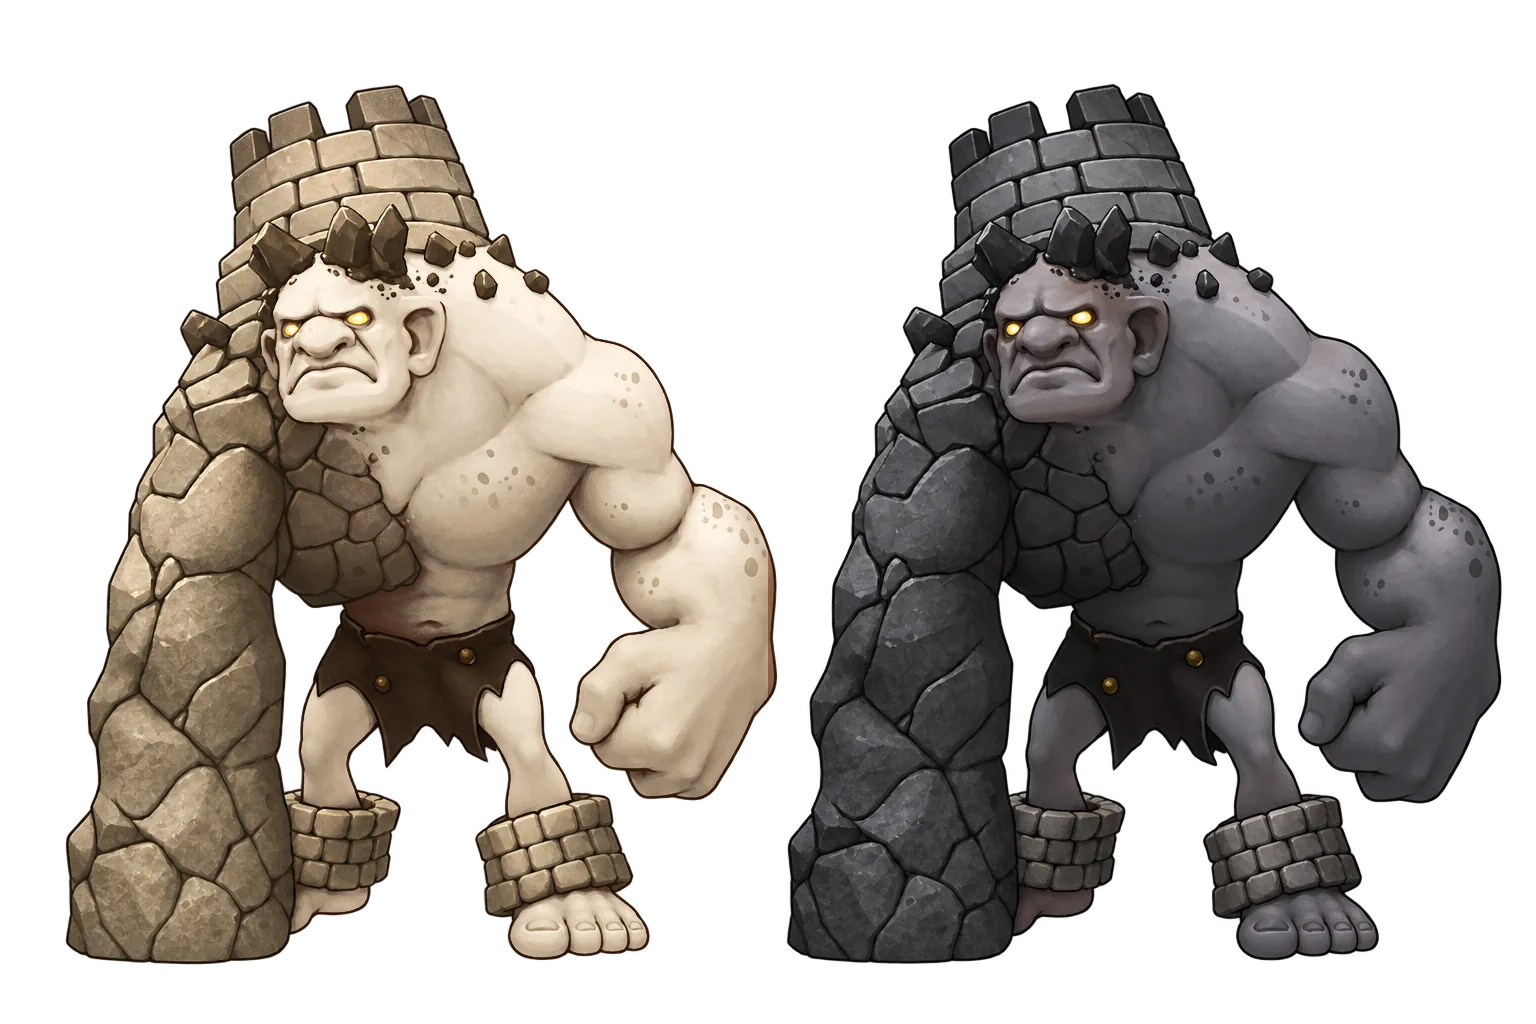
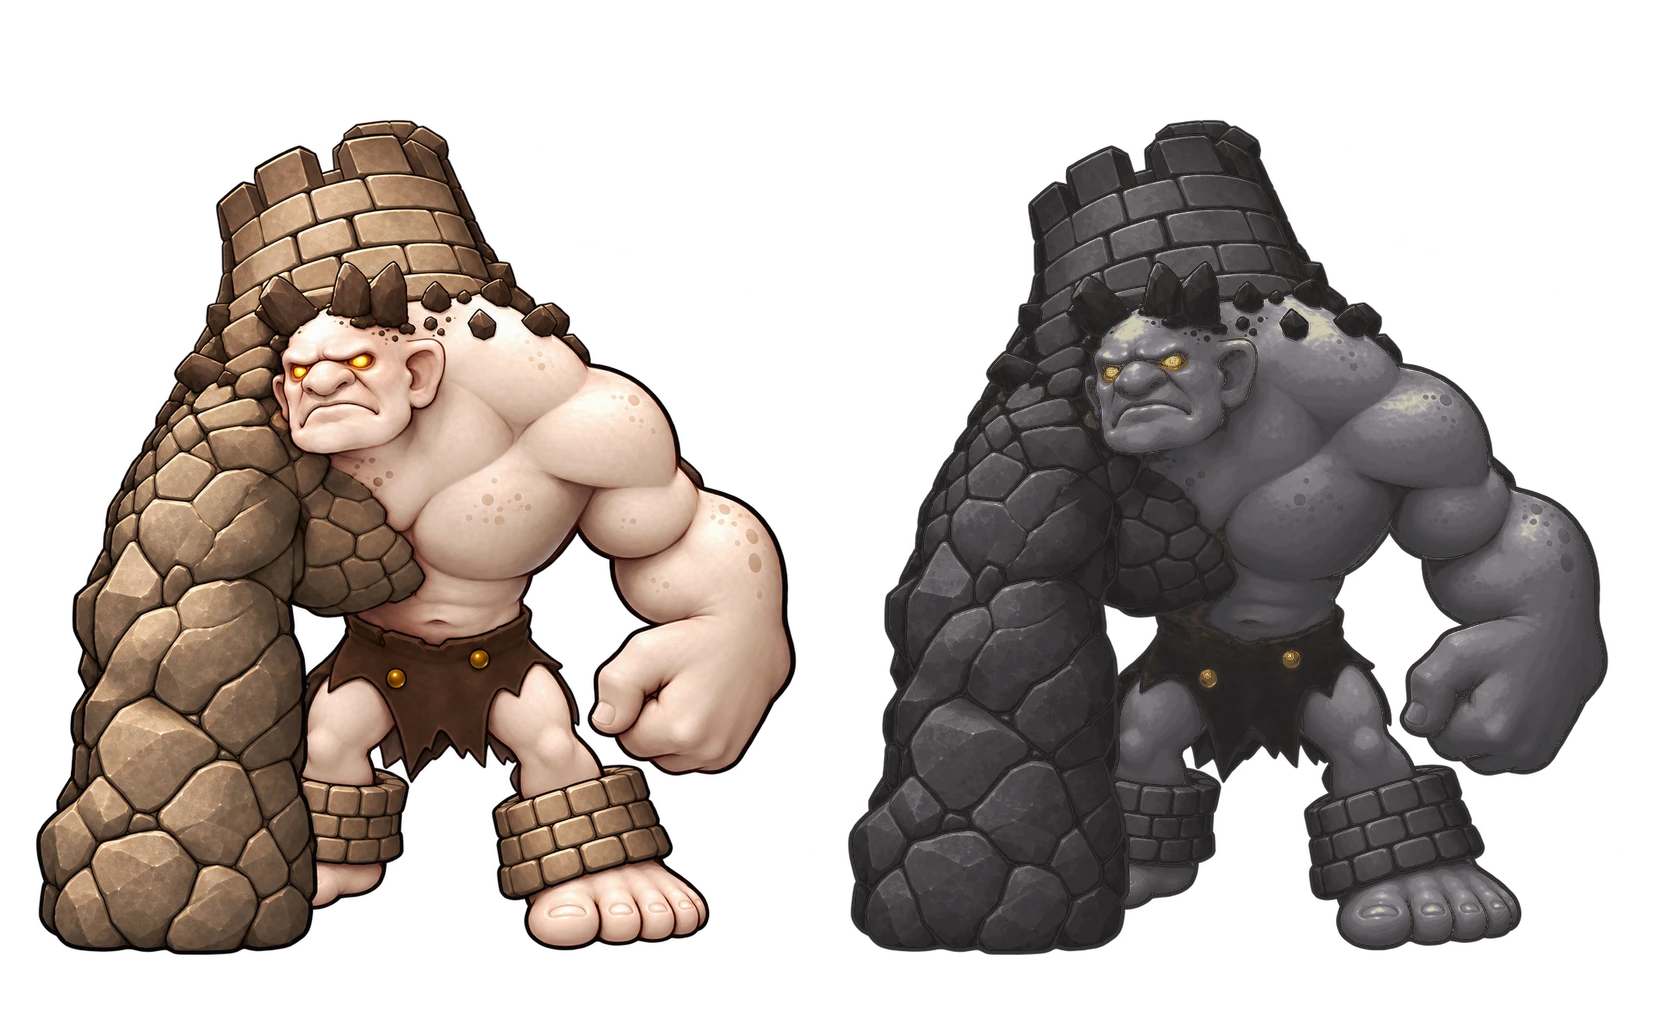
Use the slam clip's rest drawing as the board Rook
The board Rook sheet rook/rook.webp is now the rest drawing of the
approved slam clip, for both armies, written by clips/build.mjs. The
figure no longer changes when the clip starts and ends. The sheet
windows are 840 px wide; the Charcoal mirror origin moves to 970.

The browser check now holds the Rook rest drawing to 2 % changed
pixels against the still (measured 0.2-0.6 %). The ticket records the
three decisions taken and a before/after capture.

diff --git a/docs/2d-first-pieces/rook/index.html b/docs/2d-first-pieces/rook/index.html
@@ -18,7 +18,7 @@
 <label class="motion-option"><input type="checkbox" id="slow-motion"> Slow motion</label>
 <hr><h2>Board scale</h2><p>The tower and pillar read as one heavy Rook silhouette. Move and capture along straight ranks and files. Other pieces block his path.</p>
 <div class="samples"><div class="sample"><canvas id="sample-ivory" width="1152" height="1152" role="img" aria-label="Ivory Rook at board size"></canvas></div><div class="sample dark"><canvas id="sample-charcoal" width="1152" height="1152" role="img" aria-label="Charcoal Rook at board size"></canvas></div></div>
-<div class="links"><a href="rook.png">Full-size artwork</a><a href="original-reference.png">Original reference</a><a href="README.md">Study notes</a></div>
+<div class="links"><a href="rook.webp">Board artwork</a><a href="rook.png">Painted study</a><a href="original-reference.png">Original reference</a><a href="README.md">Study notes</a></div>
 </aside></div><footer>Original Rook identity translated into painted 2D · ivory and charcoal · tower, pillar arm and amber eyes.</footer></main>
 <style>.sample canvas{width:134px;height:134px}.motion-option+.motion-option{margin-top:8px}</style>
 <script type="module">
@@ -37,5 +37,5 @@ $('ram').onclick=ram;$('reset').onclick=cancel;$('scene').onclick=ram;
 $('scene').onkeydown=e=>{if(e.key==='Enter'||e.key===' '){e.preventDefault();ram();}};
 for(const button of document.querySelectorAll('[data-side]'))button.onclick=()=>{side=Number(button.dataset.side);cancel();for(const b of document.querySelectorAll('[data-side]'))b.setAttribute('aria-pressed',String(b===button));};
 $('reduce-motion').onchange=cancel;preference.onchange=()=>{$('reduce-motion').checked=preference.matches;cancel();};
-art.onload=()=>{ready=true;draw();};art.onerror=()=>{$('status').textContent='Artwork could not load. Reload the preview.';$('ram').disabled=true;};art.src='rook.png';
+art.onload=()=>{ready=true;draw();};art.onerror=()=>{$('status').textContent='Artwork could not load. Reload the preview.';$('ram').disabled=true;};art.src='rook.webp';
 </script></html>

diff --git a/docs/specs/character-clips/issues/01-game-integration.md b/docs/specs/character-clips/issues/01-game-integration.md
@@ -12,7 +12,7 @@ Sources of approval (character-animation thread and `docs/specs/character-animat
 - Knight lance tap, nine-drawing v2: the owner says "bank the previous version for knight".
 - Rook slam, crack and heal, two-second high-resolution loop: the owner says "that's great".
 
-The effects thread (states, cards, interface, king grounds) is in PR #92. This ticket does not touch that work.
+The effects thread (states, cards, interface, king grounds) is in PR #92. This ticket does not touch that work. The PR targets `staging/first-game`; the integration PR #94 takes it to main.
 
 ## Plan
 
@@ -23,9 +23,9 @@ The effects thread (states, cards, interface, king grounds) is in PR #92. This t
 ## Checks
 
 - `node --test docs/2d-first-pieces/clips/clips.test.mjs`: 5 cases pass. A copy of the scene without the atlas draw call fails the play case.
-- `PLAYABLE_BROWSER=chromium npm run check:browser character-clips`: passes (43 s). Both armies: Knight 9 drawings in 733 ms, Rook 26 drawings in 1983 ms, then the still figure; no restart while selected. On a stopped clock every drawing shows in order. Canvas pixels near the figure: the rest drawing differs from the still figure by 1.8–4.4 % of pixels, the raised drawing from the rest drawing by 1.2–7.3 %. Without the atlas draw, the raised change is 0 and the check fails. Reduced motion and Motion Off: no clip.
+- `PLAYABLE_BROWSER=chromium npm run check:browser character-clips`: passes (43 s). Both armies: Knight 9 drawings in 733 ms, Rook 26 drawings in 1983 ms, then the still figure; no restart while selected. On a stopped clock every drawing shows in order. Canvas pixels near the figure: the rest drawing differs from the still figure by 1.8–2.1 % of pixels (Knight) and 0.2–0.6 % (Rook, whose board sheet is the rest drawing; it was 3.5–4.4 % before), the raised drawing from the rest drawing by 1.2–7.3 %. Without the atlas draw, the raised change is 0 and the check fails. Reduced motion and Motion Off: no clip.
 - `npx tsc --noEmit -p .`: passes.
-- Full `npm test` (final commit): 4767 passed, 2 failed, 8 skipped; docs scene tests 55 of 55 pass. `src/match/service.db.test.ts` "runs a Daily friend game…" fails on `origin/main` too. `tools/plugin-app.test.ts` "makes one game after a lost Start reply…" passes alone on this branch and on `origin/main`. An earlier full run under heavy machine load had 19 plugin failures; the five failing files pass alone on both branches.
+- Full `npm test` (after the merge of `staging/first-game` and the Rook sheet change): 4830 passed, 2 failed, 8 skipped; docs scene tests 55 of 55 pass. `tools/plugin-motion.test.ts` "opens end actions during a live win (reduced motion true)" timed out under load and passes alone. Earlier run: 4767 passed, 2 failed. `src/match/service.db.test.ts` "runs a Daily friend game…" fails on `origin/main` too. `tools/plugin-app.test.ts` "makes one game after a lost Start reply…" passes alone on this branch and on `origin/main`. An earlier full run under heavy machine load had 19 plugin failures; the five failing files pass alone on both branches.
 
 ## Review
 
@@ -39,11 +39,13 @@ An independent review (read-only) found three faults; all are fixed:
 
 Evidence: `docs/specs/character-clips/evidence/knight-in-game.webp` and `rook-in-game.webp` (Ivory top row, Charcoal bottom row, in-game captures on a stopped clock). The check also records a video.
 
-## Open owner decisions
+## Decisions taken
 
-1. The Rook slam drawings are a redrawn Rook (face, skin and proportions differ from the board Rook). The figure changes when the clip starts and ends. Pick: keep the change, use the clip's rest drawing as the board Rook, or regenerate the clip from the board Rook.
-2. The samples are Ivory only. The Charcoal clips come from a colour map; the Charcoal Knight's cape is lighter than the painted one. Pick: accept, or generate Charcoal drawings.
-3. Trigger: the clip plays on selection. Alternative: now and then at rest, as the resting pawns do.
+The owner's standing rule is to act on the recommendation, so these are settled:
+
+1. Rook look: the board Rook is the slam clip's rest drawing, for both armies. `clips/build.mjs` writes `rook/rook.webp` from it, so the figure does not change when the clip starts and ends. The sheet windows are wider (840 px) and the Charcoal mirror origin moves to 970; the capture pound still deforms the stone arm as before. Before and after: `evidence/rook-board-before-after.webp`.
+2. Charcoal: keep the colour map. Generated Charcoal drawings are a later option.
+3. Trigger: the clip plays on selection.
 
 ## Not built
 

diff --git a/docs/2d-first-pieces/rook/README.md b/docs/2d-first-pieces/rook/README.md
@@ -4,6 +4,8 @@
 
[1 lines of base64/hex data omitted]
 
+**Board sheet (2026-10-24).** The board draws `rook.webp`, not `rook.png`. `clips/build.mjs` writes it from the rest drawing of the approved slam clip, for both armies (Charcoal through the clip colour map), so the figure does not change when the clip starts and ends. Its windows are `CELLS` in `motion.mjs` (840 px each); `rook.png` stays as the painted study.
+
 The source profile points left like the archival reference. `drawRook` mirrors the complete source window at draw time, so the runtime pose has a canonical +x/right-facing silhouette; normal army-facing mirroring can then face the two sides toward each other. `ANCHOR` and `HIT` are in the 1152 × 1152 local canvas: the anchor is `{x:576,y:964}`, while `{x:576,y:505}` is a torso/body hit point for incoming attacks. `extension` is the normalized `actionAt(t)` amount (−0.14 to 1).
 
 The 1.1-second action rocks the complete painted figure through at most 0.025 radians around the forward stone-ground contact at `{x:928,y:964}`. The rear foot lifts slightly as the weight comes forward, then returns. Tower and fist remain rigid. This is a restrained weight shift, not a walking cycle, independent arm articulation or new directional artwork. Both armies, Brace/Reset, slow/reduced motion, keyboard activation and board-scale samples are available. Physical touch hardware and owner acceptance remain untested.

diff --git a/docs/2d-first-pieces/clips/README.md b/docs/2d-first-pieces/clips/README.md
@@ -24,9 +24,10 @@ The samples folder holds the reviewed sample sheets and manifests (`knight-tap-f
 
 The script does not repaint a drawing. It fits one scale and one translation for each clip: the clip's rest drawing against the board's still sprite. It mirrors the Rook as the board does. Each drawing keeps the registration anchor of its sample manifest. The atlas stores each drawing at 0.36 of sprite size, which is more than the board's largest display needs.
 
-The samples are Ivory only. The Charcoal drawings are the Ivory drawings through a colour map. The map comes from the board's two painted armies: for each Ivory colour, the mean Charcoal colour at the same place. `provenance.json` records the map's mean error against the painted Charcoal still. The map cannot tell two parts with the same Ivory colour apart: the Charcoal Knight's cape comes out lighter than the painted cape.
+The Rook slam drawings are a redrawn Rook. So the board's Rook sheet `rook/rook.webp` is the clip's rest drawing (both armies), and the build writes it too. The figure does not change when the clip starts and ends. The build stops if the rest drawing does not fit the sheet windows (`CELLS`, `mirrorOrigin` in `rook/motion.mjs`).
+
+The samples are Ivory only. The Charcoal drawings are the Ivory drawings through a colour map. The map comes from the board's two painted armies: for each Ivory colour, the mean Charcoal colour at the same place. `provenance.json` records the map's mean error against the painted Charcoal still. The map cannot tell two parts with the same Ivory colour apart: the Charcoal Knight's cape comes out lighter than the painted cape. Generated Charcoal drawings are a later option.
 
 ## Known limits
 
-- The Rook slam drawings are a redrawn Rook. Face, skin colour and proportions differ from the board's Rook, so the figure changes when the clip starts and ends.
 - The Knight drawings are close to the board's Knight, but small drawing changes remain between them.
